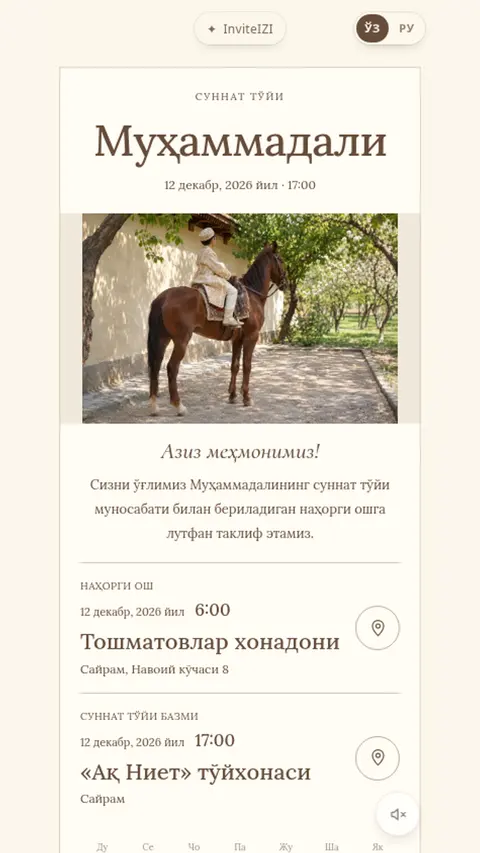
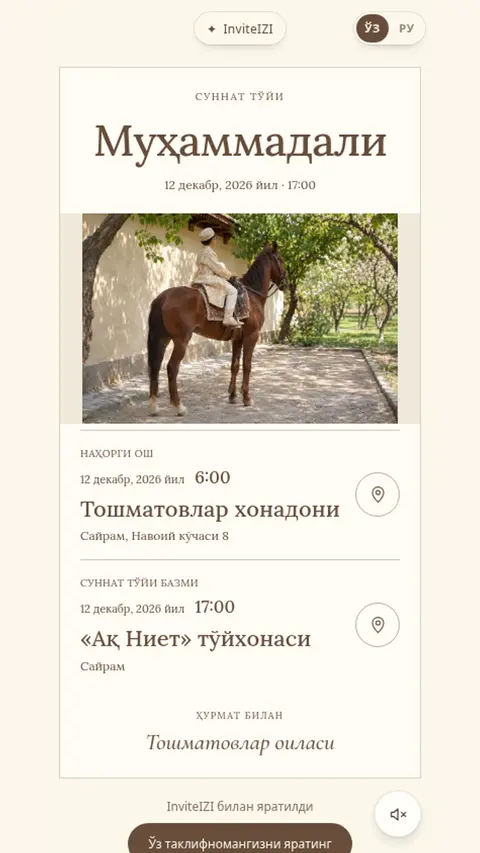
Make two Sunnat Simple invitations compact without calendars or letter sections
Preserve photos, event data, maps and hosts; leave Animated and Scroll unchanged.

diff --git a/templates/themes/sunnat-collection/Designs.tsx b/templates/themes/sunnat-collection/Designs.tsx
@@ -11,5 +11,5 @@ const art=(id:string)=>`/art/sunnat-collection/${id}.webp`;
 export function Ceremonial(props:TemplateProps){const inv=useSunnat(props,true);return <Frame inv={inv} className={s.ceremony} ink="#354d3f" paper="#fbf7ed" ending={<Closing inv={inv}/>}><main inert={!inv.opened} aria-hidden={!inv.opened} data-layout="ceremonial-keepsake"><header className={s.ceremonyHead}><p className={s.kicker}>{celebrationCopy(inv.lang).joy}</p><h2>{t.occasionTitles.sunnat}</h2><Person inv={inv} max={57}/><DateLine inv={inv}/></header><Letter inv={inv}/><img className={s.garment} src={art('zarhal-duo')} alt="" aria-hidden loading="eager"/><div className={s.inset}><Calendar inv={inv}/><Timer inv={inv}/></div><Events inv={inv}/></main>{!inv.opened&&<Folio inv={inv}/>}</Frame>;}
 function Folio({inv}:{inv:Invitation}){const[scope,animate]=useAnimate<HTMLButtonElement>(),gate=useCeremony(inv,[art('folio'),art('zarhal-duo')]),e=mainEvent(inv);async function sequence(){await animate('[data-folio-front]',{rotateY:-155},{duration:1.15,ease:[.3,.06,.2,1]});await Promise.all([animate('[data-folio]',{y:'110svh'},{duration:.55,ease:[.4,0,.3,1]}),animate('[data-stage]',{opacity:0},{duration:.4})]);}return <button ref={scope} data-open data-ready={gate.ready||undefined} data-mechanism="bound-ceremonial-folio" className={s.opening} onClick={()=>void gate.open(sequence)} aria-label={celebrationCopy(inv.lang).touch}><span data-stage className={s.stage}/><span data-folio className={s.folio}><span className={s.inner}><span>{t.occasionTitles.sunnat}</span><strong>{inv.data.person}</strong><span>{e.time}</span></span><span data-folio-front className={s.front}><img src={art('folio')} alt="" aria-hidden/><span className={s.coverType}><span>{celebrationCopy(inv.lang).invitation}</span><b>{t.occasionTitles.sunnat}</b><strong>{inv.data.person}</strong><span>{t.date.long(e.when.day,e.when.monthIndex,e.when.year)}</span><span>{inv.data.hosts}</span></span></span></span><span className={s.prompt}>{gate.status==='error'?celebrationCopy(inv.lang).retry:celebrationCopy(inv.lang).touch}</span></button>;}
 export function Ayvan(props:TemplateProps){const inv=useSunnat(props);return <Frame inv={inv} className={s.ayvan} ink="#345b6e" paper="#f8f6ed" ending={<Closing inv={inv}/>}><main data-layout="ayvan-editorial" data-entry-mode="direct"><header className={s.ayvanHead}><p className={s.kicker}>{t.occasionTitles.sunnat}</p><Person inv={inv} max={60}/><DateLine inv={inv}/></header><img className={s.veranda} src={art('moviy-ayvon')} alt="" aria-hidden loading="eager"/><div className={s.welcome}><Letter inv={inv}/></div><Events inv={inv}/><div className={s.month}><Calendar inv={inv}/></div></main></Frame>;}
-export function Horse(props:TemplateProps){const inv=useSunnat(props);return <Frame inv={inv} className={s.horse} ink="#674d3b" paper="#fcf7ec" simple><article className={s.horseCard} data-layout="horse-photo-card" data-entry-mode="direct"><header><p className={s.kicker}>{t.occasionTitles.sunnat}</p><Person inv={inv} max={43}/><DateLine inv={inv}/></header><PhotoGrid photos={inv.data.photos}/><div className={s.horseBody}><Letter inv={inv} compact/><Events inv={inv} compact/><Calendar inv={inv} compact/><Closing inv={inv} compact/></div></article></Frame>;}
-export function Embroidered(props:TemplateProps){const inv=useSunnat(props),e=mainEvent(inv);return <Frame inv={inv} className={s.stitched} ink="#354a69" paper="#f9f5e9" simple><article className={s.stitchCard} data-layout="embroidered-print" data-entry-mode="direct"><img className={s.embroidery} src={art('kashta-tilagi')} alt="" aria-hidden loading="eager"/><div className={s.stitchType}><p className={s.kicker}>{celebrationCopy(inv.lang).invitation}</p><h2>{t.occasionTitles.sunnat}</h2><Person inv={inv} max={40}/><div className={s.ribbonDate}><span>{t.date.long(e.when.day,e.when.monthIndex,e.when.year)}</span><strong>{e.time}</strong></div><Letter inv={inv} compact/><Calendar inv={inv} compact/><Events inv={inv} compact/><Closing inv={inv} compact/></div></article></Frame>;}
+export function Horse(props:TemplateProps){const inv=useSunnat(props);return <Frame inv={inv} className={s.horse} ink="#674d3b" paper="#fcf7ec" simple><article className={s.horseCard} data-layout="horse-photo-card" data-entry-mode="direct"><header><p className={s.kicker}>{t.occasionTitles.sunnat}</p><Person inv={inv} max={43}/><DateLine inv={inv}/></header><PhotoGrid photos={inv.data.photos}/><div className={s.horseBody}><Events inv={inv} compact/><Closing inv={inv} compact/></div></article></Frame>;}
+export function Embroidered(props:TemplateProps){const inv=useSunnat(props),e=mainEvent(inv);return <Frame inv={inv} className={s.stitched} ink="#354a69" paper="#f9f5e9" simple><article className={s.stitchCard} data-layout="embroidered-print" data-entry-mode="direct"><img className={s.embroidery} src={art('kashta-tilagi')} alt="" aria-hidden loading="eager"/><div className={s.stitchType}><p className={s.kicker}>{celebrationCopy(inv.lang).invitation}</p><h2>{t.occasionTitles.sunnat}</h2><Person inv={inv} max={40}/><div className={s.ribbonDate}><span>{t.date.long(e.when.day,e.when.monthIndex,e.when.year)}</span><strong>{e.time}</strong></div><Events inv={inv} compact/><Closing inv={inv} compact/></div></article></Frame>;}

diff --git a/templates/sunnat-collection.test.ts b/templates/sunnat-collection.test.ts
@@ -23,9 +23,9 @@ it("stages four distinct identities, correct prices and photo contracts without 
 for(const id of ids)for(const mode of ['demo','full'] as const)for(const count of [1,2,3])it(`${id}/${mode}: preserves ${count} events, custom Cyrillic text, hosts and maps`,async()=>{
  const d=getDesign(id)!,{default:Design}=await d.load(),data={...longSamples.sunnat,events:longSamples.sunnat.events.slice(0,count),customText:'Ў қ ғ ҳ — меҳр ва эҳтиром билан. '.repeat(24).slice(0,600),noMusic:true,langs:['ru' as const]};
  const html=renderToStaticMarkup(createElement(Design,{data,mode})),plain=html.replace(/<[^>]+>/g,' ').replaceAll(' ',' ').replace(/\s+/g,' ');
- for(const value of [data.person,data.hosts,data.customText.trim()])expect(plain).toContain(value);expect(html.includes('data-watermark')).toBe(mode==='demo');expect(html.includes('data-open=')).toBe(id==='zarhal-duo');expect(html.match(/data-event="true"/g)).toHaveLength(count);
+ for(const value of [data.person,data.hosts,...(d.format==='simple'?[]:[data.customText.trim()])])expect(plain).toContain(value);expect(html.includes('data-watermark')).toBe(mode==='demo');expect(html.includes('data-open=')).toBe(id==='zarhal-duo');expect(html.match(/data-event="true"/g)).toHaveLength(count);
  for(const event of data.events){expect(plain).toContain(event.venueName);expect(plain).toContain(event.address);expect(html).toContain(mapLink(event));}
- if(d.format==='simple')expect(html).not.toContain('data-celebration-countdown');expect(html).not.toMatch(/undefined|src="[^"]*\.svg"/);
+ if(d.format==='simple'){expect(html).not.toContain('data-celebration-countdown');expect(html).not.toContain('data-calendar-grid');expect(html).not.toContain('data-section="letter"');}expect(html).not.toMatch(/undefined|src="[^"]*\.svg"/);
 });
 for(const id of ids)it(`${id}: no repeated imagery and only the supported photo slots`,async()=>{const d=getDesign(id)!,{default:Design}=await d.load();for(const photos of [undefined,[],[''],own.slice(0,1),own.slice(0,2),own, [own[0],own[0],own[1]]]){const html=renderToStaticMarkup(createElement(Design,{data:{...d.sample,photos,noMusic:true},mode:'full'}));const srcs=[...html.matchAll(/<img[^>]*src="([^"]+)"/g)].map(x=>x[1]);expect(new Set(srcs).size).toBe(srcs.length);for(const src of own.slice(0,3))expect(srcs.includes(src)).toBe(id==='tulpor-quvonchi'&&Boolean(photos?.includes(src)));expect(html).not.toContain(own[3]);}});
 for(const id of [...old,...ids])it(`${id}: existing/paid route resolves irrespective of catalogue visibility`,async()=>{paid.id=id;const shell=InvitationPage({params:Promise.resolve({slug:'fixture-paid'}),searchParams:Promise.resolve({})}) as unknown as {props:{children:{type:(p:unknown)=>Promise<ReactElement>;props:unknown}}};const html=renderToStaticMarkup(await shell.props.children.type(shell.props.children.props));expect(html).not.toContain('data-watermark');expect(html.replace(/<[^>]+>/g,' ').replaceAll(' ',' ').replace(/\s+/g,' ')).toContain(getDesign(id)!.sample.hosts);if(ids.includes(id as typeof ids[number]))for(const src of own.slice(0,3))expect(html.includes(src)).toBe(id==='tulpor-quvonchi');});

diff --git a/docs/reviews/sunnat-collection/README.md b/docs/reviews/sunnat-collection/README.md
@@ -37,3 +37,6 @@ Profile tests cover new4 demo/full×1–3 events/600-character Cyrillic custom t
 No physical iPhone/Safari/Telegram WebView, native2GIS or real payment/order/RSVP/Storage upload tests. No SQL, production, bot changes or merge. Artistic acceptance is owner-only; stop at Preview, no Jubilee work.
 
 Local evidence:159 tests across10 files PASS (sequential run),21 mobile/reduced scenarios PASS,25 long-data/reduced/demo-RSVP cases PASS (zero RSVP POST),9 photo cases PASS. The legacy Doppicha fixture uses inline word spans, so paid-route host comparison normalizes markup/whitespace rather than requiring one literal HTML substring. No legacy source changed. Five viewports and390px closed/opening/full pages visually reviewed; folio photo's surrounding table is cropped out in the presentation so only the actual cover rotates.
+
+## Task6 prerequisite — two Simple corrections
+Only Horse/Embroidered assembly changes: remove Letter and Calendar, leaving occasion/person/date/time, photo or embroidery, all supplied event locations/addresses/maps and hosts. No opening/countdown/story structure. Photo capability stays1–3 for Tulpor and false for Kashta. Ceremonial, Folio and Ayvan functions, their CSS/art and registry unchanged.105 focused regression tests and10 local mobile cases pass. Updated two covers/OG. New exact-SHA READY and published checks recorded in PR18; historical section descriptions above refer to task5.
